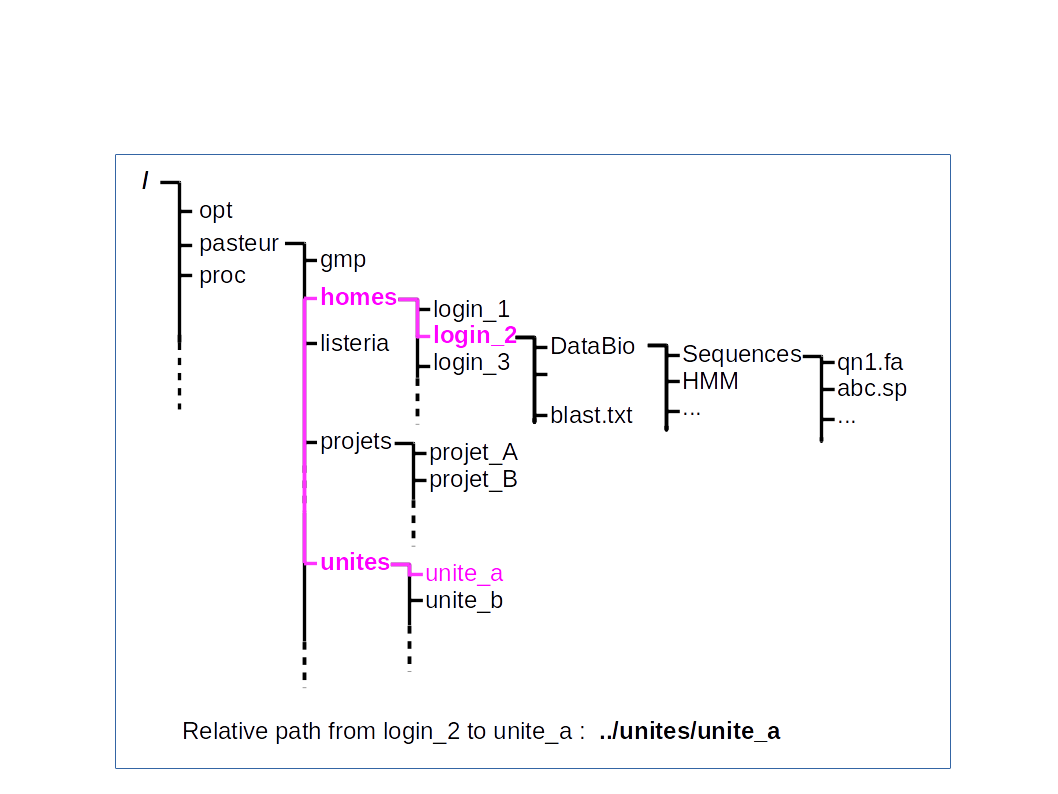
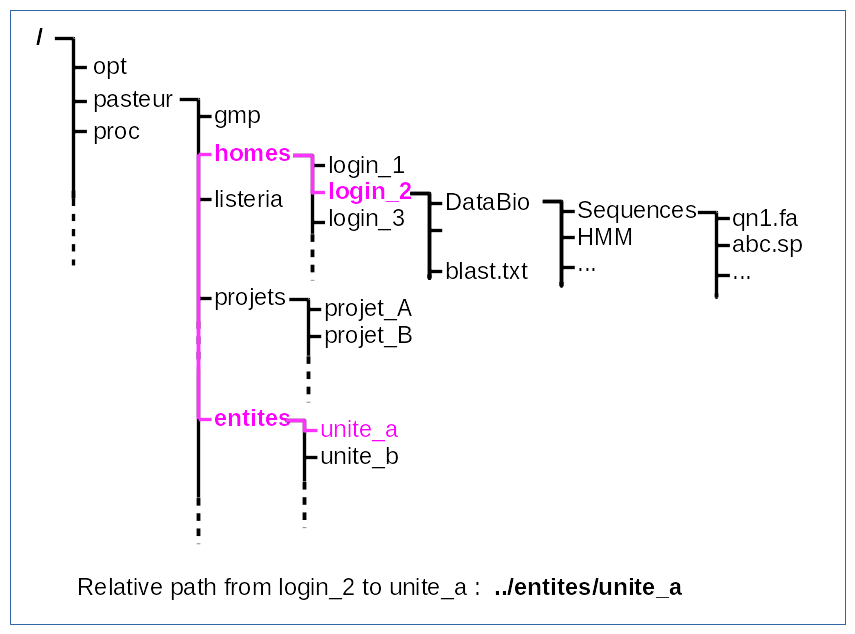
replace unites by entites which is the right names in Atlas

Changed region(s): [[0.0608, 0.0599, 0.9427, 0.8391], [0.0912, 0.8991, 0.9123, 0.989], [0.0608, 0.3596, 0.0912, 0.4196]]

diff --git a/unix-I/source/Connect_IP_servers.rst b/unix-I/source/Connect_IP_servers.rst
@@ -22,7 +22,7 @@ Secure Shell (SSH) is a cryptographic network protocol for secure data communica
 * ssh login_name@remote_server
 
 * on Mac osX ssh is available.
-* on windows use **putty**
+* on windows use **putty** **scputty**
 
 exercise:
 
